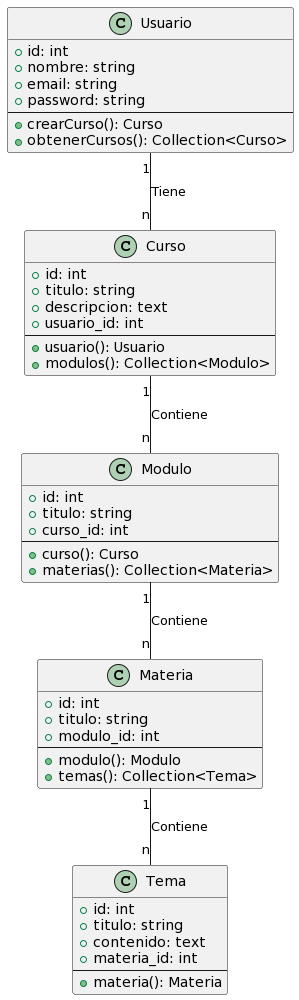
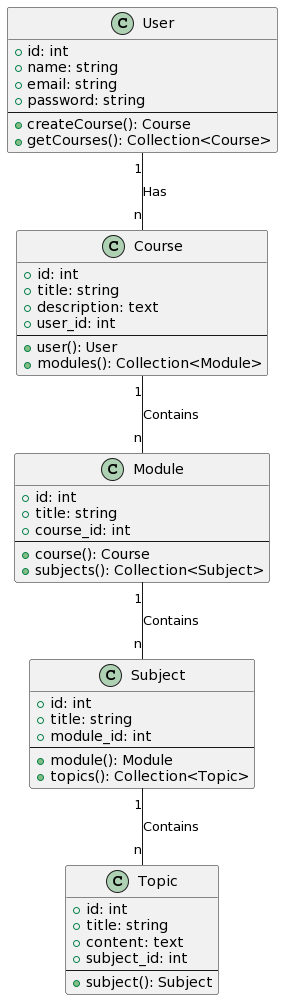
Creacion de tablas y modelos

diff --git a/database/migrations/2023_12_26_234900_create_usuarios_table.php b/database/migrations/2023_12_26_234900_create_usuarios_table.php
@@ -1,0 +1,27 @@
+<?php
+
+use Illuminate\Database\Migrations\Migration;
+use Illuminate\Database\Schema\Blueprint;
+use Illuminate\Support\Facades\Schema;
+
+return new class extends Migration
+{
+    /**
+     * Run the migrations.
+     */
+    public function up(): void
+    {
+        Schema::create('usuarios', function (Blueprint $table) {
+            $table->id();
+            $table->timestamps();
+        });
+    }
+
+    /**
+     * Reverse the migrations.
+     */
+    public function down(): void
+    {
+        Schema::dropIfExists('usuarios');
+    }
+};

diff --git a/database/migrations/2023_12_26_234903_create_materias_table.php b/database/migrations/2023_12_26_234903_create_materias_table.php
@@ -1,0 +1,27 @@
+<?php
+
+use Illuminate\Database\Migrations\Migration;
+use Illuminate\Database\Schema\Blueprint;
+use Illuminate\Support\Facades\Schema;
+
+return new class extends Migration
+{
+    /**
+     * Run the migrations.
+     */
+    public function up(): void
+    {
+        Schema::create('materias', function (Blueprint $table) {
+            $table->id();
+            $table->timestamps();
+        });
+    }
+
+    /**
+     * Reverse the migrations.
+     */
+    public function down(): void
+    {
+        Schema::dropIfExists('materias');
+    }
+};

diff --git a/database/migrations/2023_12_26_234902_create_modulos_table.php b/database/migrations/2023_12_26_234902_create_modulos_table.php
@@ -1,0 +1,27 @@
+<?php
+
+use Illuminate\Database\Migrations\Migration;
+use Illuminate\Database\Schema\Blueprint;
+use Illuminate\Support\Facades\Schema;
+
+return new class extends Migration
+{
+    /**
+     * Run the migrations.
+     */
+    public function up(): void
+    {
+        Schema::create('modulos', function (Blueprint $table) {
+            $table->id();
+            $table->timestamps();
+        });
+    }
+
+    /**
+     * Reverse the migrations.
+     */
+    public function down(): void
+    {
+        Schema::dropIfExists('modulos');
+    }
+};

diff --git a/database/migrations/2023_12_26_234901_create_cursos_table.php b/database/migrations/2023_12_26_234901_create_cursos_table.php
@@ -1,0 +1,27 @@
+<?php
+
+use Illuminate\Database\Migrations\Migration;
+use Illuminate\Database\Schema\Blueprint;
+use Illuminate\Support\Facades\Schema;
+
+return new class extends Migration
+{
+    /**
+     * Run the migrations.
+     */
+    public function up(): void
+    {
+        Schema::create('cursos', function (Blueprint $table) {
+            $table->id();
+            $table->timestamps();
+        });
+    }
+
+    /**
+     * Reverse the migrations.
+     */
+    public function down(): void
+    {
+        Schema::dropIfExists('cursos');
+    }
+};

diff --git a/database/migrations/2023_12_26_235452_create_temas_table.php b/database/migrations/2023_12_26_235452_create_temas_table.php
@@ -1,0 +1,27 @@
+<?php
+
+use Illuminate\Database\Migrations\Migration;
+use Illuminate\Database\Schema\Blueprint;
+use Illuminate\Support\Facades\Schema;
+
+return new class extends Migration
+{
+    /**
+     * Run the migrations.
+     */
+    public function up(): void
+    {
+        Schema::create('temas', function (Blueprint $table) {
+            $table->id();
+            $table->timestamps();
+        });
+    }
+
+    /**
+     * Reverse the migrations.
+     */
+    public function down(): void
+    {
+        Schema::dropIfExists('temas');
+    }
+};

diff --git a/app/Models/Materia.php b/app/Models/Materia.php
@@ -1,0 +1,11 @@
+<?php
+
+namespace App\Models;
+
+use Illuminate\Database\Eloquent\Factories\HasFactory;
+use Illuminate\Database\Eloquent\Model;
+
+class Materia extends Model
+{
+    use HasFactory;
+}

diff --git a/app/Models/Usuario.php b/app/Models/Usuario.php
@@ -1,0 +1,11 @@
+<?php
+
+namespace App\Models;
+
+use Illuminate\Database\Eloquent\Factories\HasFactory;
+use Illuminate\Database\Eloquent\Model;
+
+class Usuario extends Model
+{
+    use HasFactory;
+}

diff --git a/app/Models/Modulo.php b/app/Models/Modulo.php
@@ -1,0 +1,11 @@
+<?php
+
+namespace App\Models;
+
+use Illuminate\Database\Eloquent\Factories\HasFactory;
+use Illuminate\Database\Eloquent\Model;
+
+class Modulo extends Model
+{
+    use HasFactory;
+}

diff --git a/app/Models/Curso.php b/app/Models/Curso.php
@@ -1,0 +1,11 @@
+<?php
+
+namespace App\Models;
+
+use Illuminate\Database\Eloquent\Factories\HasFactory;
+use Illuminate\Database\Eloquent\Model;
+
+class Curso extends Model
+{
+    use HasFactory;
+}

diff --git a/app/Models/Tema.php b/app/Models/Tema.php
@@ -1,0 +1,11 @@
+<?php
+
+namespace App\Models;
+
+use Illuminate\Database\Eloquent\Factories\HasFactory;
+use Illuminate\Database\Eloquent\Model;
+
+class Tema extends Model
+{
+    use HasFactory;
+}
